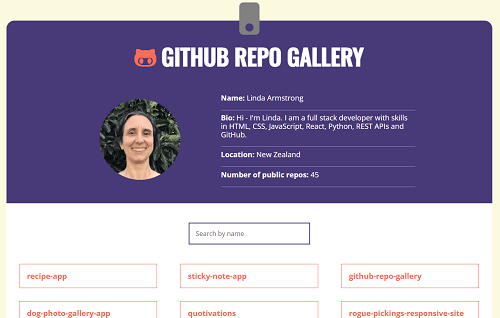
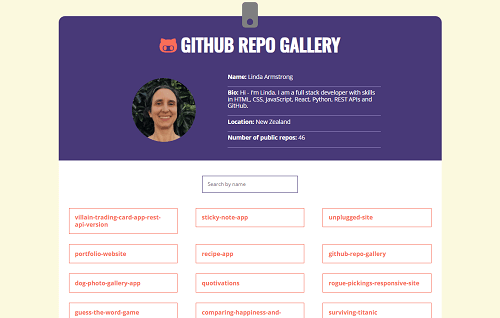
Changed project, minor edits, changed some images

diff --git a/index.html b/index.html
@@ -51,13 +51,13 @@
             
             <div class="home-portfolio-piece">
               <figure>
-                <a href="https://github.com/armstrong-l/recipe-app/" target="_blank"><img src="./img/recipe-app.png" alt="Interactive Recipe App Project"></a>
+                <a href="https://armstrongl.pythonanywhere.com/" target="_blank"><img src="./img/supervillain.png" alt="Interactive Recipe App Project"></a>
               </figure>
-              <h4>Recipe App</h4>
-              <p class="project-description">A full-stack recipe app where users can view, add, edit, delete and search their favorite recipes.  Recipes are pulled from and stored in an API database, using a Flask Web Framework.</p>
-              <p><span>Skills: </span>Flask web framework, REST API framework, SQL database, Routing requests</p>
-              <p class="flex-fill"><span>Tools: </span>JavaScript React, Python</p>
-              <a class="project-link" href="https://github.com/armstrong-l/recipe-app/" target="_blank">GitHub page</a>
+              <h4>Supervillain App</h4>
+              <p class="project-description">A Python and JavaScript app where users can view, add and remove their favourite female supervillain trading cards. The app uses flask and a SQL database as well as Rest API and the jsonify method.</p>
+              <p><span>Skills: </span>Flask web framework, REST API framework, SQL database</p>
+              <p class="flex-fill"><span>Tools: </span>JavaScript, Python</p>
+              <a class="project-link" href="https://armstrongl.pythonanywhere.com/" target="_blank">live page</a>
             </div>
             <div class="home-portfolio-piece">
               <figure>
@@ -135,7 +135,7 @@
       <div class="content-wrapper">
         <div class="about-content-wrapper">
           <figure>
-            <img src="./img/profile-avatar.png" alt="" id="profile-image">
+            <img src="./img/profile_pic.PNG" alt="Profile picture" id="profile-image">
           </figure>
           <div class="about-info">
             <h3>Hi! I’m Linda</h3>
@@ -153,7 +153,7 @@
       <h3>Let's Connect</h3>
       <div class="contact-wrapper">
         <div class="contact-info">
-          <h5 class="contact-title"><span>Hire me</span></h5>
+          <h5 class="contact-title"><span>Contact me</span></h5>
           <p>larmstrongnz@gmail.com</p>
         </div>
         <div class="contact-info follow-section">
